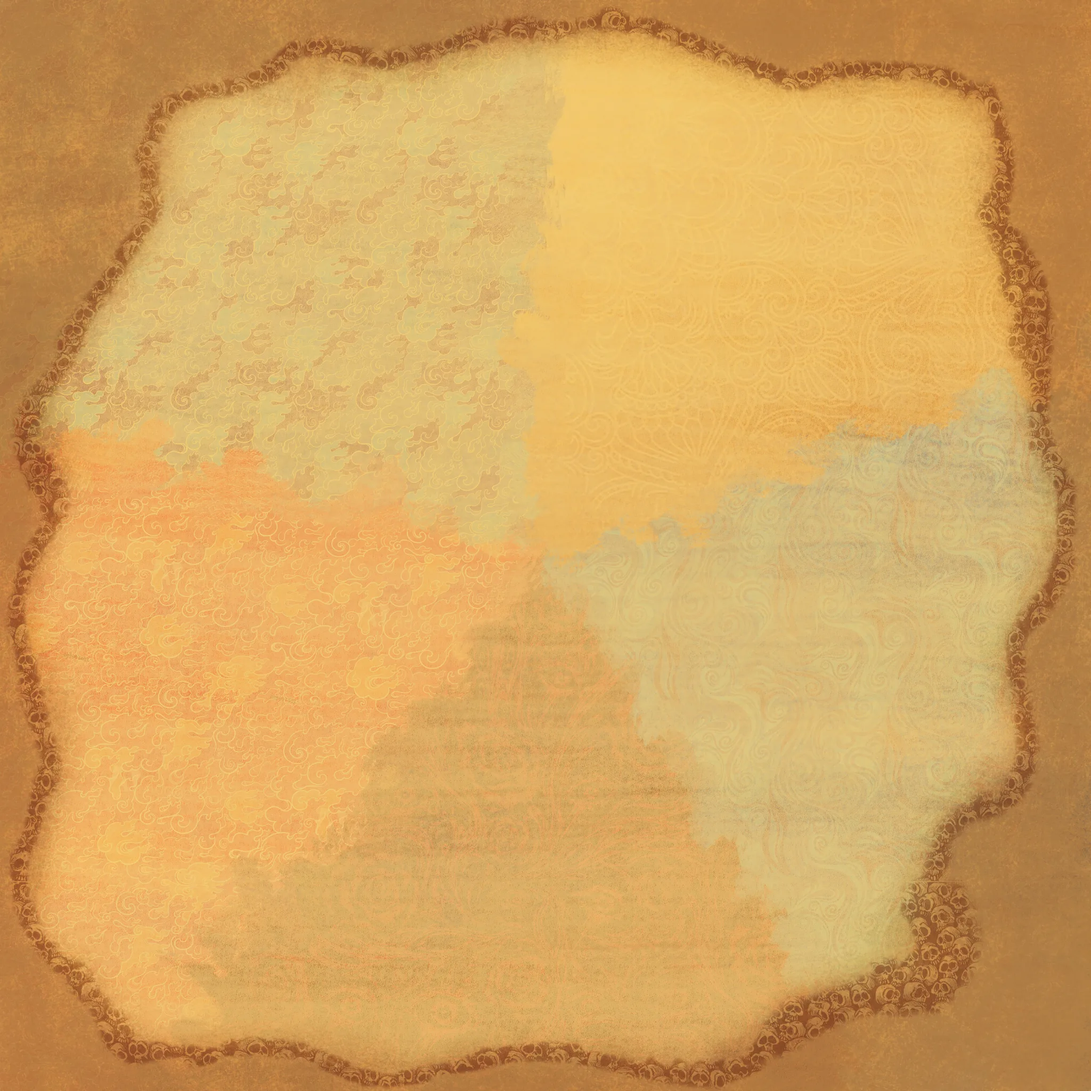
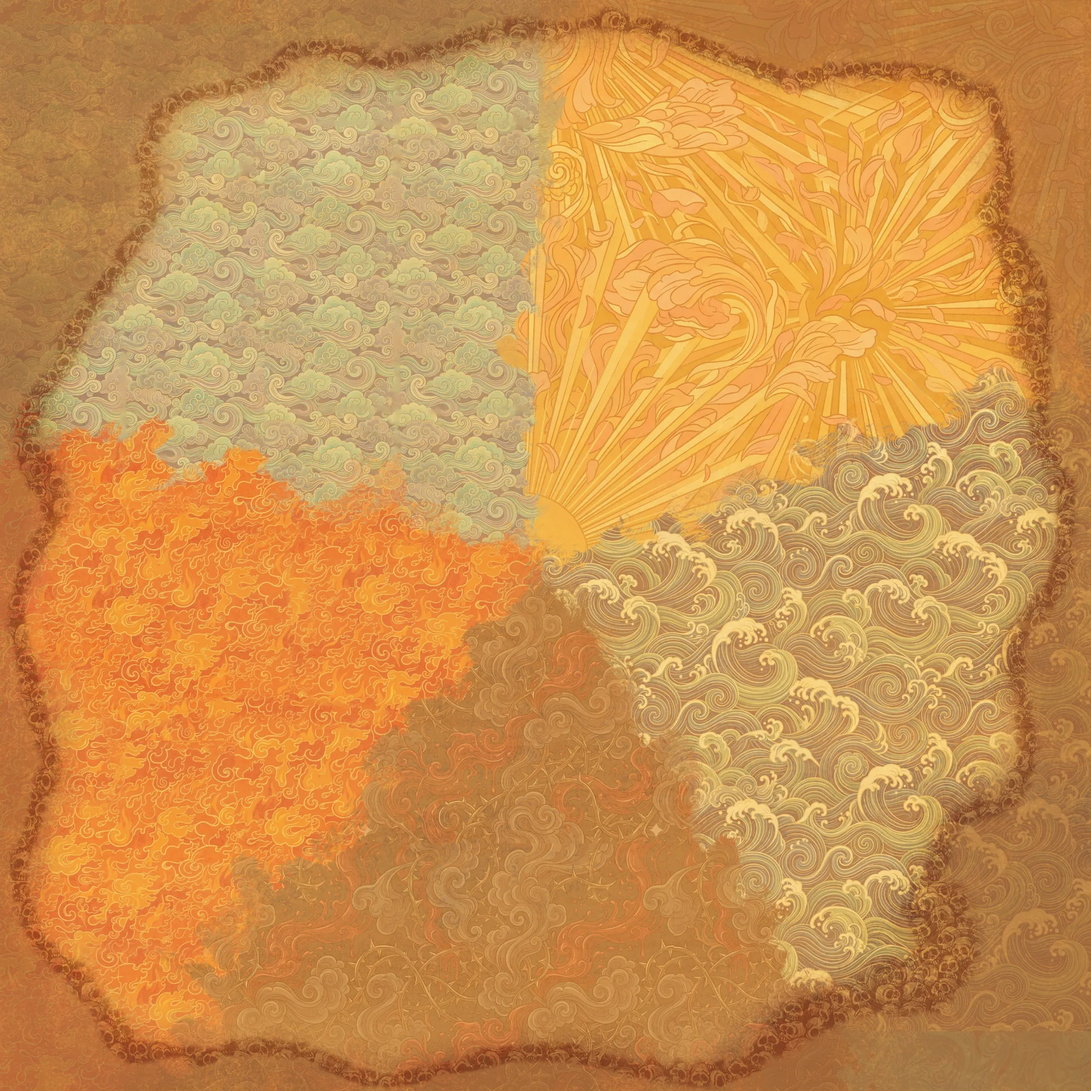
r266: the owner's new map base is in the game
The owner replaced assets/map/map_base.png (it went into git with r260 by
mistake, via git add -A). The game loads map_base.webp, which still held
the old art: it is regenerated from the new PNG with the asset-diet recipe
(2048 wide, quality 0.82) and the manifest entry records the new source.
FTUE test 503 -> 505, written first. Tracker record + Log line, counts in
CLAUDE.md and HANDOFF.

diff --git a/HANDOFF.md b/HANDOFF.md
@@ -152,6 +152,7 @@ continuation prompt printed at close time.
 - **r263:** the white idle-nudge arrows are gone: the drag nudge is the guide's dashed arrow (metal -> furnace), the tap nudge the metal's glow.
 - **r264:** the metal's glow is `tutGlowOrb`, a white ring with a gold halo (a gold drop-shadow alone vanished on the parchment).
 - **r265:** the white arrow images (`assets/ui/arrow.*`, `arrow_point_down.*`) are deleted, with their asset-diet entries.
+- **r266:** the owner's new `map_base.png` is in the game: `map_base.webp` regenerated (2048 wide, q 0.82) and its manifest entry updated. The PNG itself went in with r260 by mistake (`git add -A`); commits now name their files.
 - **FTUE v3 (history; now built, merged and live, see "Current state"; `specs/2026-10-07-ftue-v3-rework.md`):** shared systems built on `sword-forge/ftue-v3-rework`: the MARKET button and window (blueprints per trait and shape, 50g, closed until part 1 opens it), the dragon buying with flying coins (`marketGift`), shaped orders, Durable as a trait key, SKILL TREE as a tree icon, no CRAFT 5. Test: `tooling/market/market.test.mjs` (50). **Part 1 built:** three shaped GCs (Longsword, Broadsword bought by the dragon; Katana bought by the player, gold topped up to 50 if short), no part 1 rewards, 9 + 9 ore. **Part 2 built:** TC2 starts at 1 + 1 ore, the raw route misses Balanced, the dragon gives the grindstone and returns the ores; no bulk order; TC3 skips the design desk and gives no reward. **Part 3 built:** Day 2 without the skill tree; GC4 Durable (map window, cave with nickel, 2 ground nickel; Durable moved to (1577, 740): Fine without the pull, Epic with it); GC5-GC7 fire Longsword/Broadsword (dragon buys) and Katana (player buys). **Part 4 built:** TC4 Epic Durable (cave trip, the pull lesson parks the sword on Durable), TC5 gale with the reminder, GC8 Weak balanced Longsword (the hammer parks in the Weak band); orders can name a tier. **Part 5 built:** Bram's swift Dagger (the dragon buys the blueprint), the sharpening wheel locked until his reward window, the diary, GC9 gale Longsword (the dragon buys). **Part 6 built:** Garric gives the design desk (D130b) and its lesson, the banner in every outcome and its lesson, then the second night, Day 3 and the skill tree; D140 ends the FTUE. GC1-GC3 are guided through the whole craft by pointers (owner, 2026-10-08). **FTUE v3 is complete; owner play-test pending.** 2026-10-09: a new Sword crafted window (card + sliding details paper), and recipes keep their hammering; a new quest list (two pages of seven, 20g + 20 xp each); the customer waiting system (COME LATER, the waiting list on the ledger, a two-sword customer sent there at the end of part 4). Blueprint prices rise (50 x (trait place + shape step); balanced Katana 150, fire Katana 200), and the market slides across all 25 traits. 2026-10-09 play-test fixes: exits from the screen map, the dragon on every FTUE screen, GC5/GC6 craft-book guides, the Day 2 cave holds all of Day 2 + 5 (TC4 has no cave trip, Garric no refill).
 
 ## Next steps
@@ -197,7 +198,7 @@ Then `preview_start` (name `sword-forge`, port **5679**; `autoPort` is on, so us
 `http://localhost:5679/Swordforge_looptest_landscape.html`. Expect 200 dialogue keys, `lastLine()`
 `"D140"`, and `ftuePart(3)` to land at TC3's bell (`TUT_STAGE` `bell2`).
 
-**Baselines, not regressions:** the FTUE test prints GREEN at 503 checks; the market test GREEN at 50; the hammer test GREEN at 34; the hazard test GREEN at 37; the skills test GREEN at 18; the map test GREEN at 9;
+**Baselines, not regressions:** the FTUE test prints GREEN at 505 checks; the market test GREEN at 50; the hammer test GREEN at 34; the hazard test GREEN at 37; the skills test GREEN at 18; the map test GREEN at 9;
 the mobile-fit test GREEN at **21** cases (its summary line can print only "GREEN /" in some shells);
 the living-docs audit prints **10 `ORPHAN` lines** for `docs/wiki/` and exits 0.
 

diff --git a/CLAUDE.md b/CLAUDE.md
@@ -56,7 +56,7 @@ Sword Forge is a 2D grid-based blacksmith crafting game. It is a **single, self-
 
 - **Screenshots work, but flakily.** The continuous ember/`requestAnimationFrame` loop can keep the page from going idle, and a capture fails outright while the app window is minimised or hidden. Retry once on timeout; if it fails twice, fall back to `read_page`/`javascript_tool` measurements rather than burning turns.
 - Verify with the Claude Preview tools via `.claude/launch.json` (`preview_start`, config name `sword-forge` → Node static server on port **5679** — `.claude/launch.json` is the source of truth; this line said 5678 until 2026-09-23). Exact tool names vary by environment; in the current one they are the `mcp__Claude_Browser__*` set: `javascript_tool` to drive functions directly and read `getBoundingClientRect`/computed styles/canvas pixels, `read_console_messages` for errors, `resize_window` for the viewport. Resize to mobile (375px) before measuring layout, since the headless viewport otherwise reports width 0.
-- **Seven test suites run here:** `node tooling/market/market.test.mjs` (FTUE v3 shared systems: the `MARKET` blueprints, shaped orders, Durable, against `specs/2026-10-07-ftue-v3-rework.md`, GREEN at 50 checks), `node tooling/map/map.test.mjs` (map trait icons open the craft book, `specs/2026-10-06-map-trait-links.md`, GREEN at 9 checks), `node tooling/skills/skills.test.mjs` (the `SKILLS` table and helpers against `specs/2026-10-06-skill-tree-trade-ore.md`, GREEN at 18 checks), `node tooling/hazard/hazard.test.mjs` (`HAZ` and the hazard rules against `specs/2026-10-01-hazard-integrity.md`, GREEN at 37 checks), and `node tooling/ftue/ftue.test.mjs` (the `FTUE` object against its design record, GREEN at 503 checks), `node tooling/hammer/hammer.test.mjs` (`HM_HITS` and the hit-point rules against their record, GREEN at 34 checks) and `node tooling/mobile-fit/fit.test.mjs` (GREEN at 21 cases). An `FTUE` or `HM_HITS` value changes in its design record and its test together, test first.
+- **Seven test suites run here:** `node tooling/market/market.test.mjs` (FTUE v3 shared systems: the `MARKET` blueprints, shaped orders, Durable, against `specs/2026-10-07-ftue-v3-rework.md`, GREEN at 50 checks), `node tooling/map/map.test.mjs` (map trait icons open the craft book, `specs/2026-10-06-map-trait-links.md`, GREEN at 9 checks), `node tooling/skills/skills.test.mjs` (the `SKILLS` table and helpers against `specs/2026-10-06-skill-tree-trade-ore.md`, GREEN at 18 checks), `node tooling/hazard/hazard.test.mjs` (`HAZ` and the hazard rules against `specs/2026-10-01-hazard-integrity.md`, GREEN at 37 checks), and `node tooling/ftue/ftue.test.mjs` (the `FTUE` object against its design record, GREEN at 505 checks), `node tooling/hammer/hammer.test.mjs` (`HM_HITS` and the hit-point rules against their record, GREEN at 34 checks) and `node tooling/mobile-fit/fit.test.mjs` (GREEN at 21 cases). An `FTUE` or `HM_HITS` value changes in its design record and its test together, test first.
 - **Jump to a part:** the PART 1-6 buttons beside SKIP HAMMER (bottom left, outside the frame), or `ftuePart(n)` in the console, start a new game at the beginning of part n. They build an approximate state (gold, exp and fog are guesses), so they are a test aid, not a save.
 - The preview server can drop between turns (a `navigate` fails or the tab reverts to `file://`) — restart with `preview_start` and re-`navigate`; it returns on the same port.
 - **Drive controls the way a player does, and check what a player can see.** Click through `document.elementFromPoint(x,y).dispatchEvent(...)` rather than `el.click()` — an element's box hit-tests even where its art is transparent, so props routinely cover controls. For "is it on screen", `textContent` is not enough (it reads through `display:none`): also assert `offsetParent !== null`, a non-zero box, and that `elementFromPoint` at its centre returns that element.

diff --git a/specs/2026-10-07-ftue-v3-rework.md b/specs/2026-10-07-ftue-v3-rework.md
@@ -1933,6 +1933,14 @@ From the wireframes `assets/Anchor-images/Sword_crafted_wireframe.png` and `..._
   byte for byte; 40 lines removed). Asserted by the FTUE test (503), written first. Checked in the browser: a fresh load
   requests no arrow image; no console errors.
 
+- **r266: the owner's new map base is in the game (owner, 2026-10-16).** The owner replaced `assets/map/map_base.png`
+  (2948x2948, 17.6 MB). It went into git inside r260 by mistake: that commit staged with `git add -A` while the new PNG sat
+  in the working tree (since r264 commits name their files). The game loads `map_base.webp`, which was still the old art.
+  Now the WebP is regenerated from the new PNG with the asset-diet recipe (2048 wide, quality 0.82, halving resize; 690 KB,
+  was 421 KB) through `/__save`, and the manifest entry records the new source (bytes 17,630,222). Asserted by the FTUE test
+  (505: the manifest matches the PNG on disk, the WebP is 2048 wide), written first. Checked in the browser: the page loads
+  the 690,138-byte WebP; the new map art shows; no console errors.
+
 ## Cross-part issues
 
 Problems that touch more than one part (rewards that move, D-ids reused, locks, saves).
@@ -2042,3 +2050,4 @@ The full list, kept up to date part by part: `specs/2026-10-07-ftue-v3-art-list.
 - 2026-10-16: r263 the white idle arrows are gone: the drag nudge is the guide's dashed arrow, the tap nudge the metal's glow.
 - 2026-10-16: r264 the metal's glow is a strong white ring and gold halo (tutGlowOrb).
 - 2026-10-16: r265 the white arrow images (arrow, arrow_point_down) are deleted.
+- 2026-10-16: r266 the owner's new map_base is in the game (WebP regenerated, manifest updated).
